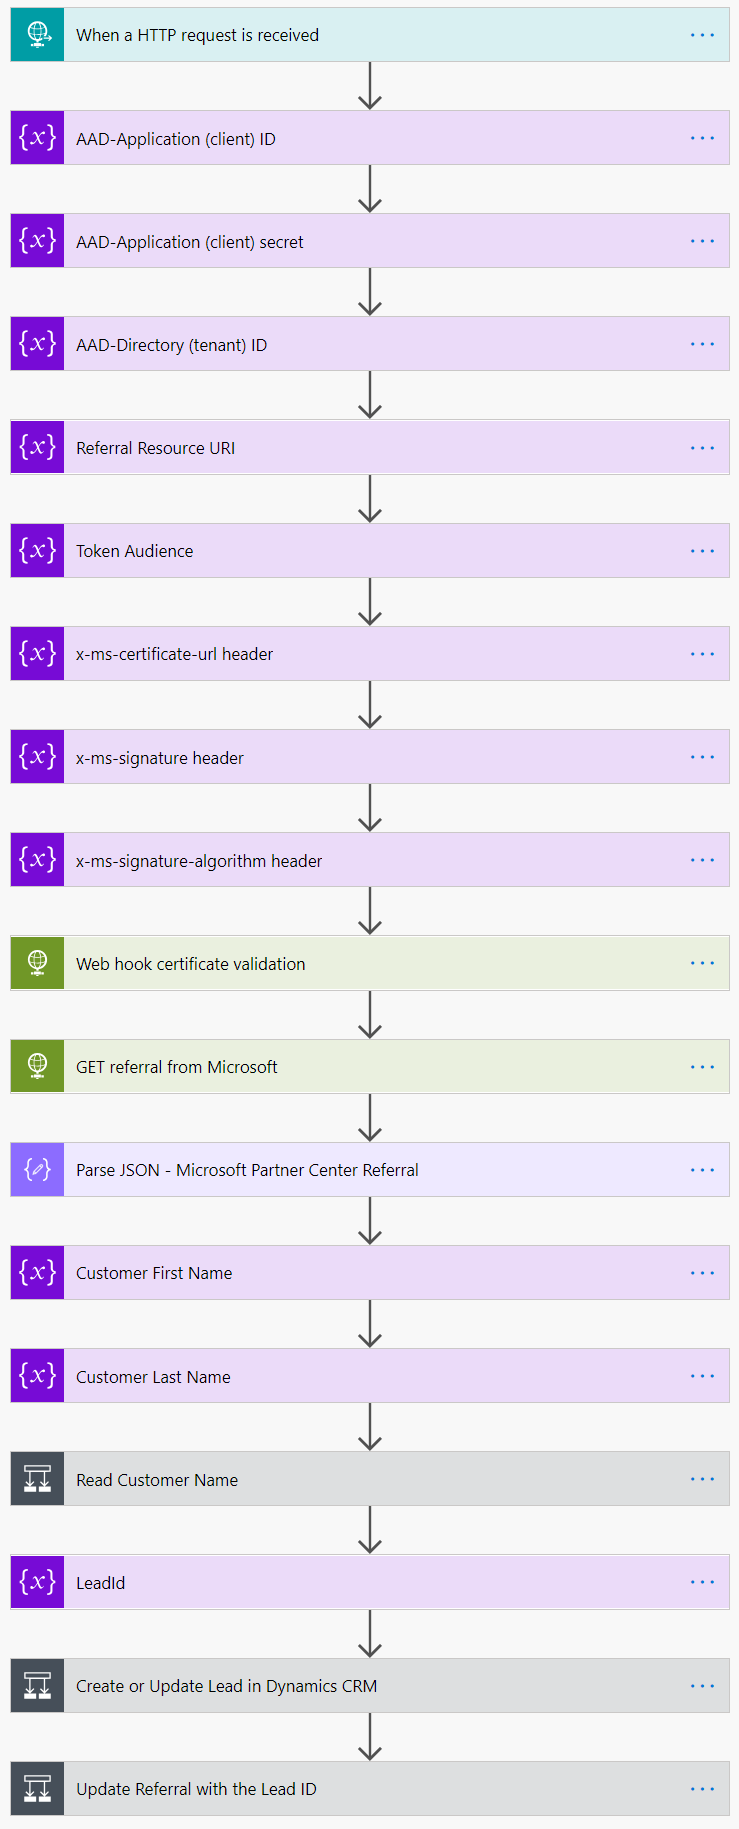
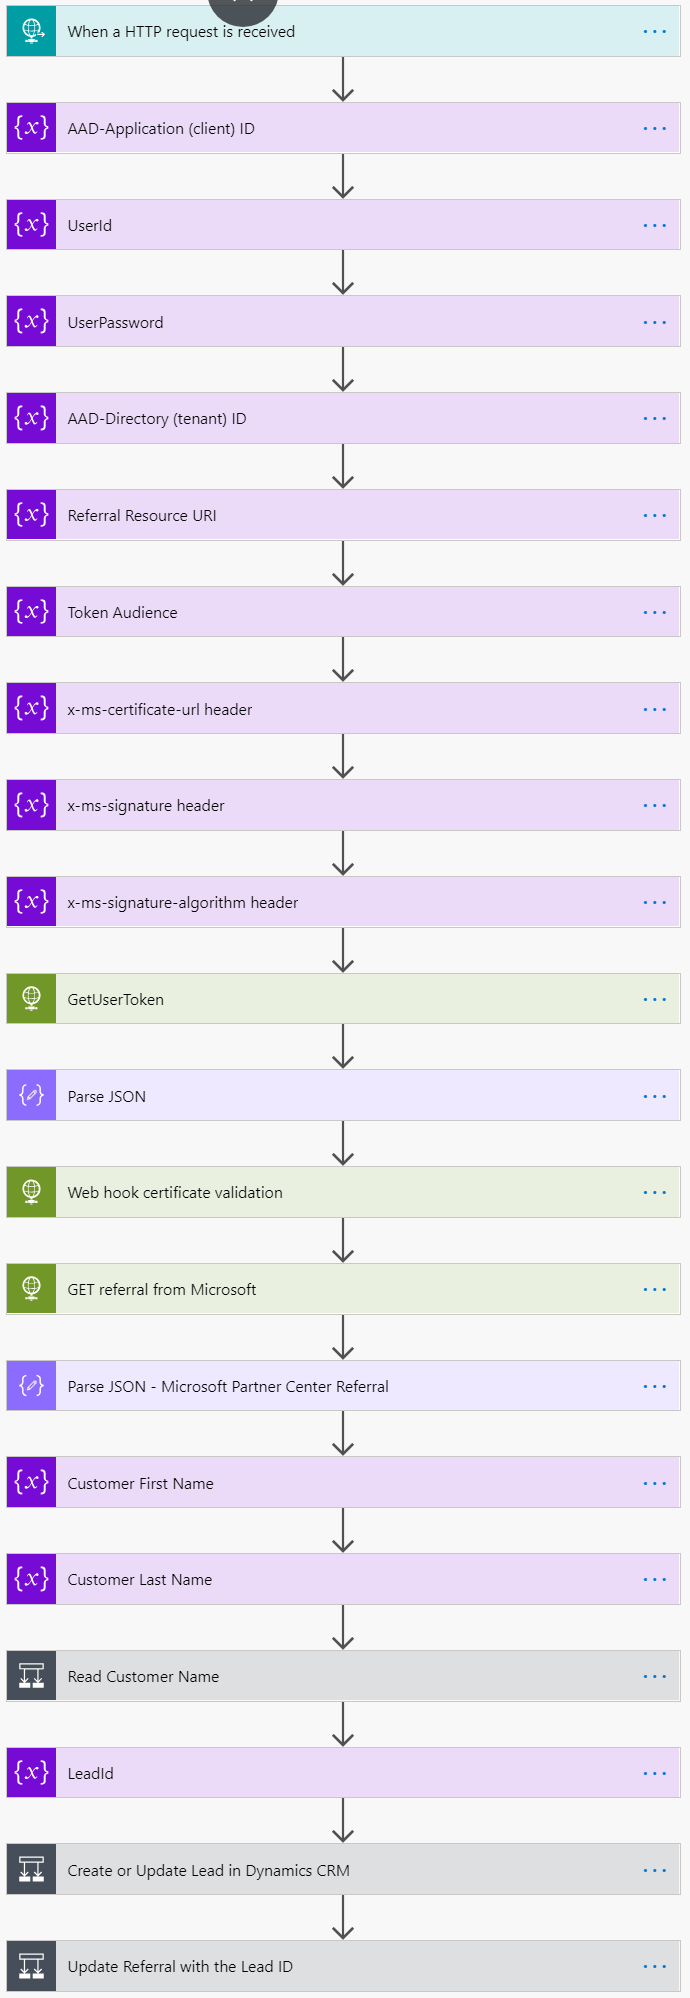
Changed to userid and user password

diff --git a/partner-rest/develop/referral-connectors.md b/partner-rest/develop/referral-connectors.md
@@ -84,11 +84,12 @@ Configure the parameters of your flow resource:
 2. Choose the flow resource you created or updated in the previous section.
 3. On the flow page, choose **Edit flow**.
 4. Choose the **AAD-Application (client) ID** variable and enter the ID of the Azure AD application.
-5. Choose the **AAD-Application (client) Secret** variable and enter the secret key of the Azure AD application.
-6. Select **AAD-Directory (tenant) ID** variable and enter the tenant ID of Azure AD application.
-7. Choose **Save**.
-8. Select **webhook certificate validation** and enter the logic app url.
-9. Save the flow.
+5. Choose the **UserId** variable and enter the user id.
+6. Choose the **UserPassword** variable and enter the user password.
+7. Select **AAD-Directory (tenant) ID** variable and enter the tenant ID of Azure AD application.
+8. Choose **Save**.
+9. Select **webhook certificate validation** and enter the logic app url.
+10. Save the flow.
 
     ![Flow variables settings screen](../images/SetFlowVariables.png)
 
